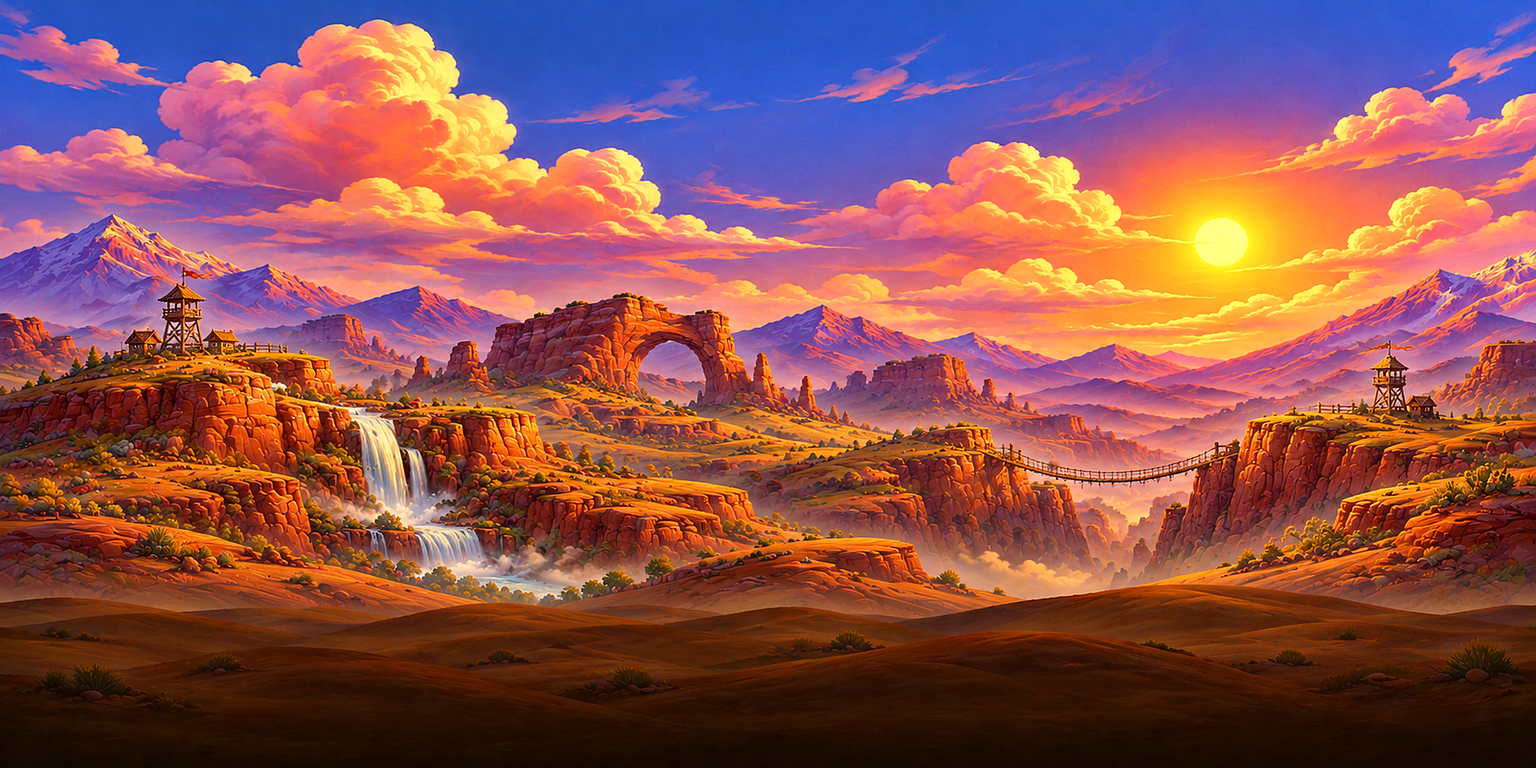
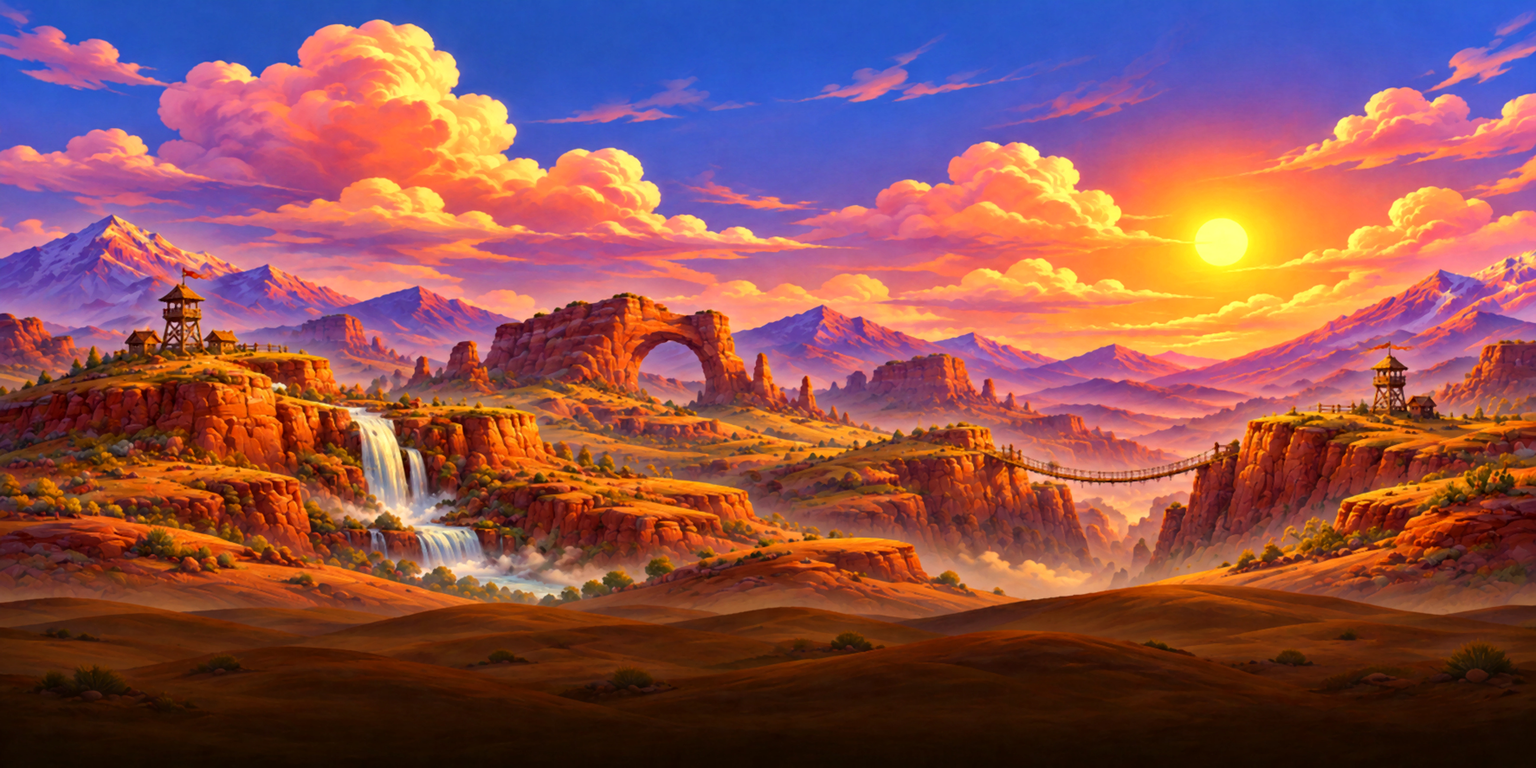
Calmer, cleaner backdrops with only real weather on top
- Re-process backdrops with a light median denoise and no unsharp mask,
  removing the halos and grain.
- Set the painting back behind play in the shader (less saturation and
  contrast, slightly darker) and drop the water shimmer.
- Remove non-weather overlays: drifting cloud blobs, decorative petals
  and sparkles, and the dark foreground silhouette layer. Rain, snow,
  lightning, embers and fog remain.

diff --git a/Sources/AlinaWorld/Game/MissionWeatherNode.swift b/Sources/AlinaWorld/Game/MissionWeatherNode.swift
@@ -2,10 +2,9 @@ import AppKit
 import SpriteKit
 
 /// A bounded, camera-relative weather simulation which stays active for the entire mission.
-/// Particle lifetimes are finite; clouds recycle instead of eventually scrolling off the level.
+/// Particle lifetimes are finite, so effects never run out over a long level.
 final class MissionWeatherNode {
     private var root: SKNode?
-    private var clouds: [SKSpriteNode] = []
     private var emitters: [(node: SKEmitterNode, rising: Bool)] = []
     private var mist: SKSpriteNode?
     private var sunlight: SKSpriteNode?
@@ -39,15 +38,7 @@ final class MissionWeatherNode {
         sunlight.alpha = weather.sunshine * 0.04
         root.addChild(sunlight); self.sunlight = sunlight
 
-        for index in 0..<6 where weather.kind != .embers {
-            let cloud = SKSpriteNode(texture: EffectTextures.cloud)
-            cloud.color = SKColor(hex: weather.rain > 0 ? 0x7790B0 : 0xF4E7F3)
-            cloud.colorBlendFactor = 0.75
-            cloud.size = CGSize(width: 150 + CGFloat(index % 3) * 55, height: 46 + CGFloat(index % 3) * 11)
-            cloud.alpha = weather.cloudCover * (index.isMultiple(of: 2) ? 0.3 : 0.22)
-            cloud.zPosition = -47 + CGFloat(index % 2)
-            root.addChild(cloud); clouds.append(cloud)
-        }
+        // No drifting cloud overlays: the painted skies already hold their clouds, and soft blobs read as smudges.
         if enabled {
             let mist = SKSpriteNode(texture: EffectTextures.glow)
             mist.color = SKColor(hex: weather.kind == .embers ? 0xFFC192 : 0xDEEBF6)
@@ -98,7 +89,8 @@ final class MissionWeatherNode {
             bolt.glowWidth = 0.001; bolt.zPosition = -33; bolt.alpha = 0
             root.addChild(bolt); self.bolt = bolt
         }
-        if weather.rain == 0 && weather.snow == 0 {
+        // Ambient drift only where it is weather (rising embers); no decorative petals or sparkles.
+        if weather.rain == 0 && weather.snow == 0 && weather.kind == .embers {
             let e = SKEmitterNode()
             let foliage = weather.kind == .breeze || weather.kind == .sunny
             e.particleTexture = foliage ? EffectTextures.leaf : EffectTextures.sparkle
@@ -130,13 +122,6 @@ final class MissionWeatherNode {
         sunlight?.position = CGPoint(x: visible.minX + visible.width * 0.77, y: visible.minY + visible.height * 0.83)
         sunlight?.size = CGSize(width: visible.width * 1.1, height: visible.height * 1.5)
         sunlight?.alpha = weather.sunshine * (0.04 + sin(elapsed * 0.3) * 0.01)
-        for (index, cloud) in clouds.enumerated() {
-            let span = visible.width + cloud.size.width * 2
-            let speed = (3 + weather.wind * 15) * (index.isMultiple(of: 2) ? 1 : 0.65)
-            let origin = CGFloat(index) * span / 5 + CGFloat(abs(weather.seed % 97))
-            let x = (origin + elapsed * speed).truncatingRemainder(dividingBy: span) - cloud.size.width
-            cloud.position = CGPoint(x: visible.minX + x, y: visible.minY + visible.height * (0.64 + CGFloat(index % 3) * 0.13))
-        }
         mist?.position = CGPoint(x: visible.midX + sin(elapsed * 0.12) * 80, y: visible.minY + visible.height * 0.24)
         mist?.size = CGSize(width: visible.width * 1.9, height: visible.height * 0.35)
         for (e, rising) in emitters {
@@ -157,7 +142,7 @@ final class MissionWeatherNode {
     func cleanup() {
         // Particle targets are the scene, so clear them before detaching the emitter hierarchy.
         emitters.forEach { $0.node.resetSimulation() }
-        root?.removeFromParent(); root = nil; clouds.removeAll(); emitters.removeAll()
+        root?.removeFromParent(); root = nil; emitters.removeAll()
         mist = nil; shade = nil; sunlight = nil; vignette = nil; bolt = nil; elapsed = 0; warmedUp = false
     }
 }

diff --git a/Sources/AlinaWorld/Game/GameScene.swift b/Sources/AlinaWorld/Game/GameScene.swift
@@ -64,7 +64,6 @@ final class GameScene: SKScene {
     private var checkpoint: CGPoint = .zero
 
     private let parallax = ParallaxBackground()
-    private let foreground = ForegroundLayer()
     /// Where the camera follows to; shake is added on top so smoothing never eats it.
     private var cameraBase: CGPoint?
     private var shakeAmount: CGFloat = 0
@@ -130,7 +129,6 @@ final class GameScene: SKScene {
         #if DEBUG
         if RigPreview.enabled { rigPreview.attach(to: cameraNode) }
         #endif
-        foreground.attach(to: self, theme: level.theme, mapWidth: level.map.worldSize().width)
         parallax.attach(
             to: self,
             theme: level.theme,
@@ -168,7 +166,6 @@ final class GameScene: SKScene {
     override func willMove(from view: SKView) {
         InputController.shared.mode = .menu
         parallax.cleanup()
-        foreground.cleanup()
     }
 
     // MARK: Pause
@@ -249,7 +246,6 @@ final class GameScene: SKScene {
         updateCheckpoint()
         updateCamera(delta: dt)
         parallax.update(visible: visibleRect, delta: clamped)
-        foreground.update(visible: visibleRect, delta: clamped)
         #if DEBUG
         rigPreview.update(dt: dt)
         #endif

diff --git a/Sources/AlinaWorld/Game/ParallaxBackground.swift b/Sources/AlinaWorld/Game/ParallaxBackground.swift
@@ -31,9 +31,12 @@ final class ParallaxBackground {
             uv.x += water * sin(uv.y * 100.0 - u_phase * 1.7) * 0.0011;
             uv.y += water * sin(uv.x * 110.0 + u_phase * 1.3) * 0.0008;
             vec4 color = texture2D(u_texture, clamp(uv, vec2(0.001), vec2(0.999)));
-            // The paintings are dehazed and upscaled offline (Scripts/enhance-backdrops.py); sample them untouched.
-            float shimmer = pow(max(0.0, sin(uv.x * 190.0 + uv.y * 80.0 - u_phase * 2.2)), 14.0);
-            color.rgb += vec3(0.016, 0.019, 0.020) * shimmer * water;
+            // The paintings are dehazed and upscaled offline (Scripts/enhance-backdrops.py). Here they are only
+            // set back behind the action: a little less saturation and contrast, a touch darker, no veil.
+            float luma = dot(color.rgb, vec3(0.299, 0.587, 0.114));
+            vec3 c = mix(vec3(luma), color.rgb, 0.78);
+            c = mix(vec3(0.5), c, 0.86) * 0.95;
+            color.rgb = clamp(c, 0.0, 1.0);
             gl_FragColor = color;
         }
         """)

diff --git a/Scripts/enhance-backdrops.py b/Scripts/enhance-backdrops.py
@@ -7,7 +7,8 @@ Sources/AlinaWorld/Resources/Art/<name>.jpg at twice the size:
 1. Dark-channel dehaze: estimates the milky veil per pixel (strong on distant mountains and the misty
    lower band, absent on close detail) and removes most of it, keeping a little for depth.
 2. Local contrast and a small saturation lift so distant detail reads.
-3. Lanczos 2x upscale and an unsharp mask, so the GPU no longer stretches a small image on Retina screens.
+3. Light denoise (median) to calm the generator's grain, then a Lanczos 2x upscale with no sharpening, so the
+   GPU no longer stretches a small image on Retina screens and edges stay clean (no halos).
 
 Usage: python3 Scripts/enhance-backdrops.py [names...]   (default: every *.png in the source folder)
 """
@@ -58,11 +59,12 @@ def dehaze(img: Image.Image) -> Image.Image:
 
 
 def enhance(path: Path) -> Path:
-    img = dehaze(Image.open(path))
+    src = Image.open(path).convert("RGB").filter(ImageFilter.MedianFilter(3))
+    img = dehaze(src)
     big = img.resize((img.width * SCALE, img.height * SCALE), Image.LANCZOS)
-    big = big.filter(ImageFilter.UnsharpMask(radius=2.2, percent=70, threshold=2))
+    big = big.filter(ImageFilter.GaussianBlur(radius=0.6))
     target = OUT / (path.stem + ".jpg")
-    big.save(target, "JPEG", quality=90, optimize=True, progressive=True, subsampling=0)
+    big.save(target, "JPEG", quality=93, optimize=True, progressive=True, subsampling=0)
     return target
 
 
